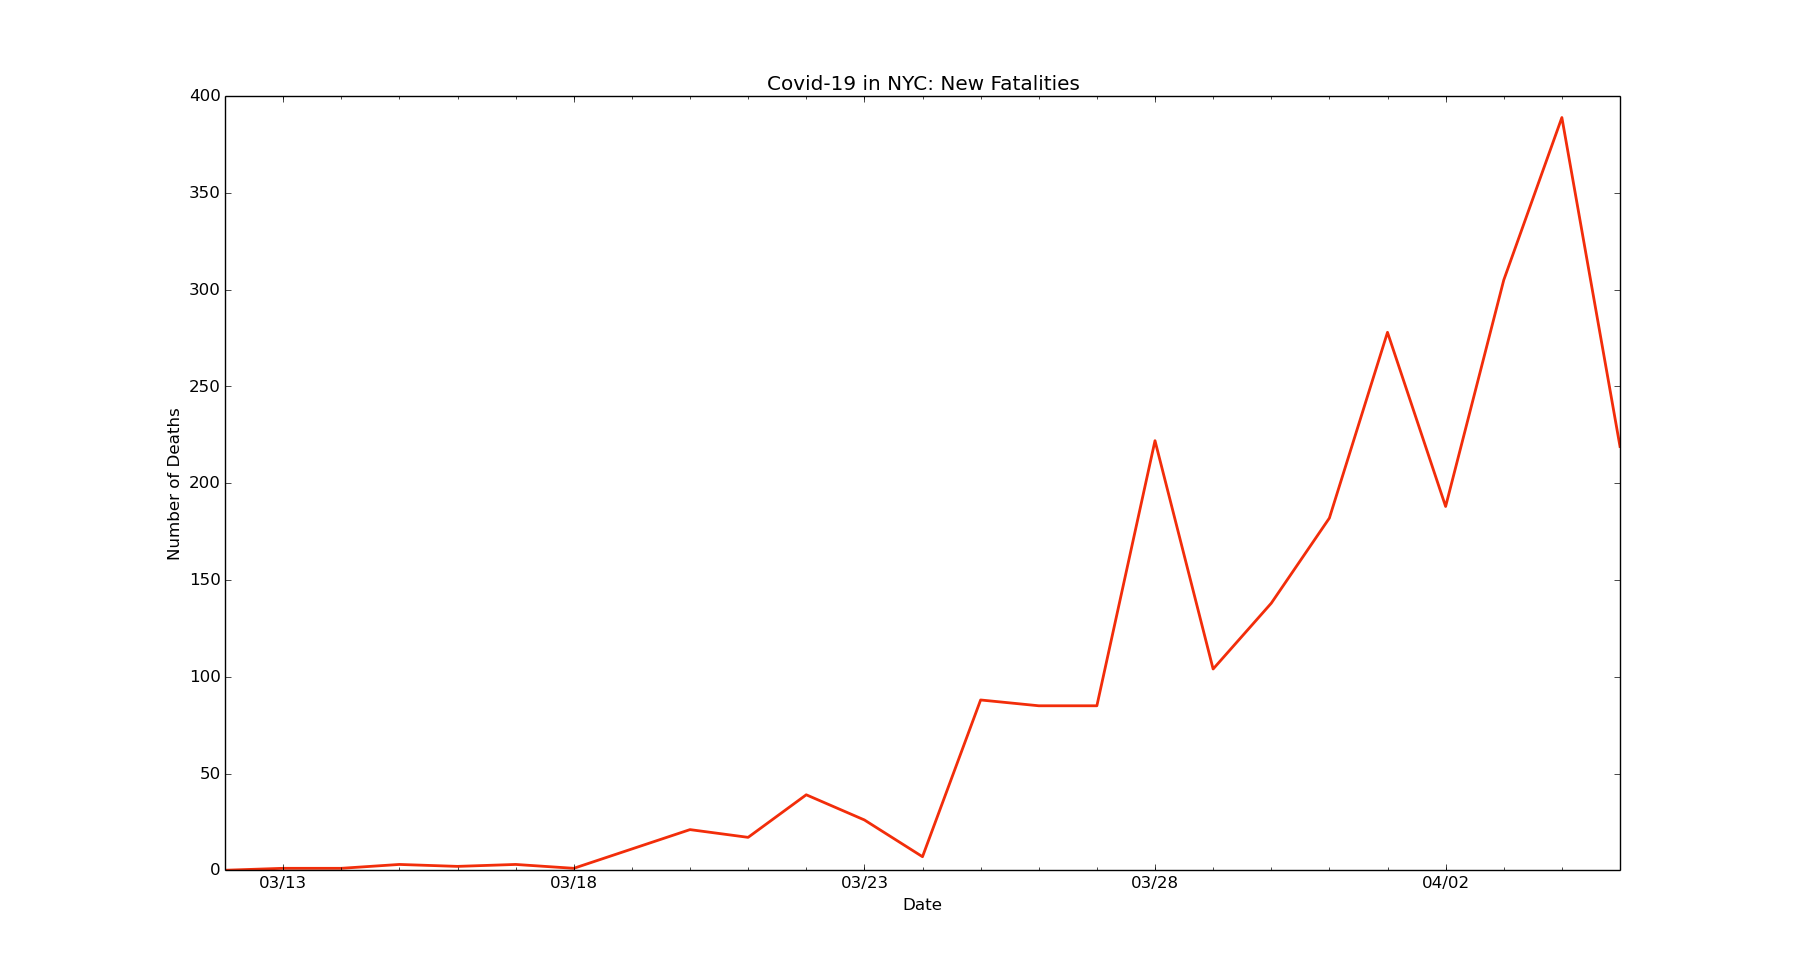
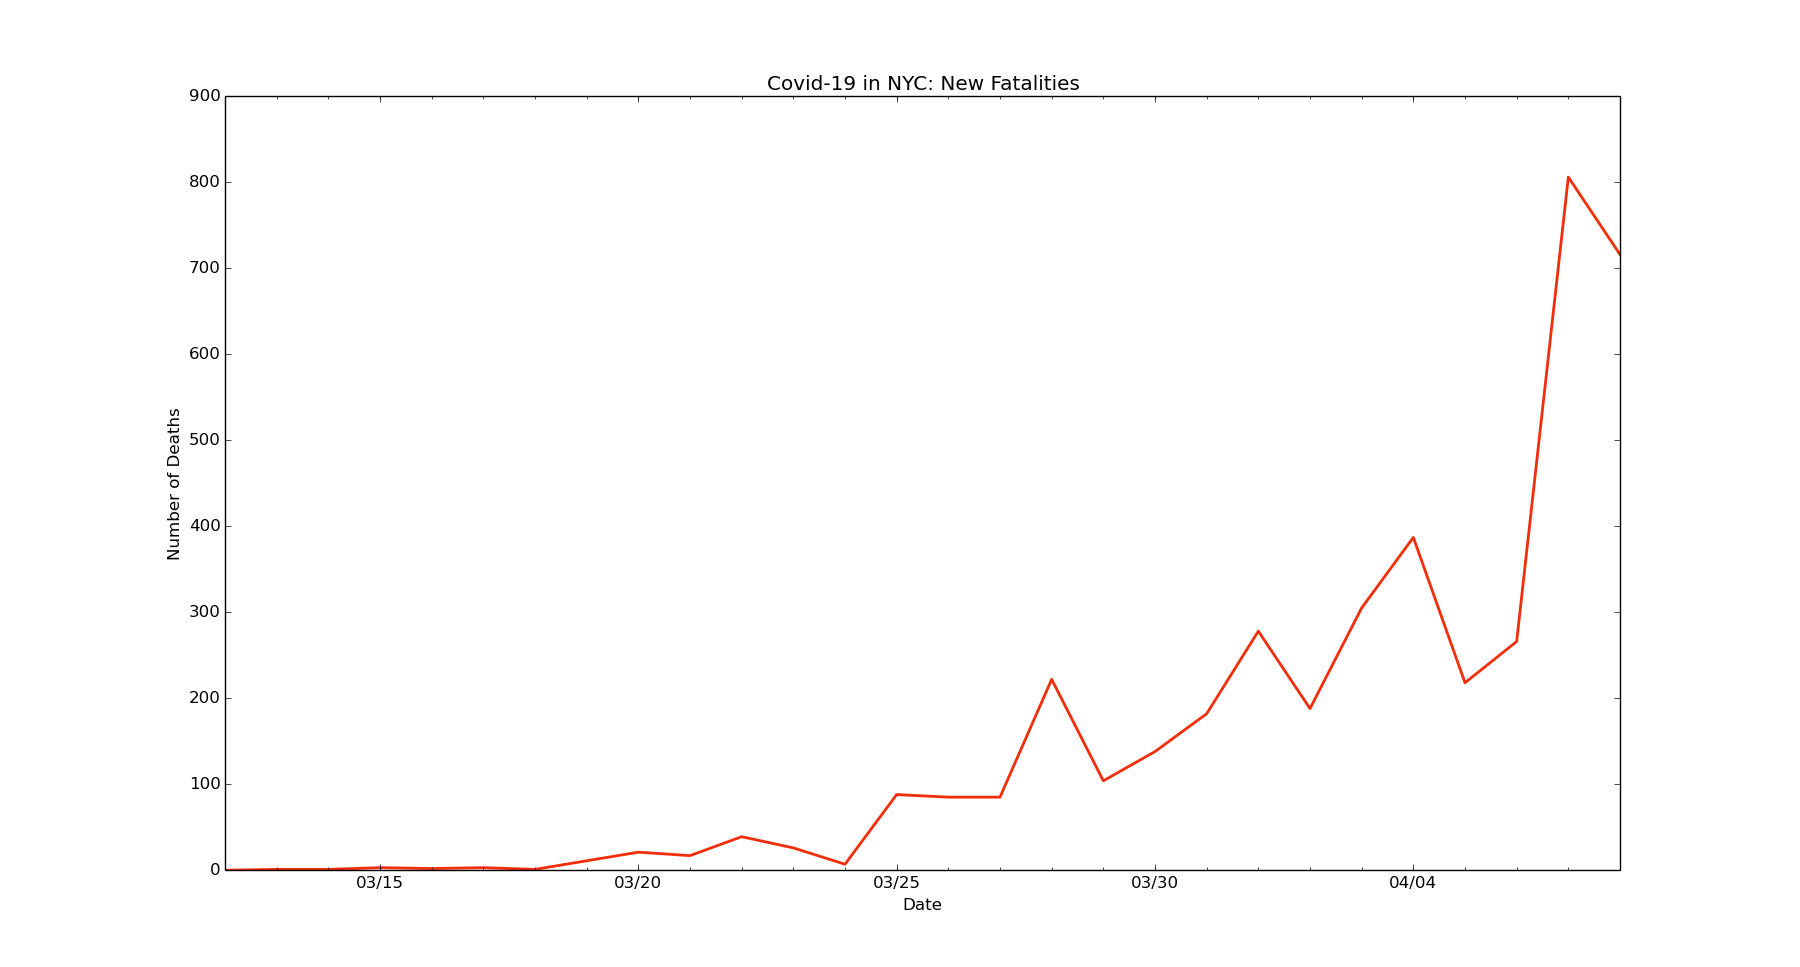
chore: Update data for NYC

diff --git a/nyc/nyc-new-cases.py b/nyc/nyc-new-cases.py
@@ -6,7 +6,7 @@ import matplotlib.dates as mdates
 import matplotlib.ticker as ticker
 from matplotlib.dates import MO, TU, WE, TH, FR, SA, SU
 
-dates = ['2/29/2020', '3/1/2020', '3/2/2020', '3/3/2020', '3/4/2020', '3/5/2020', '3/6/2020', '3/7/2020', '3/8/2020', '3/9/2020', '3/10/2020', '3/11/2020', '3/12/2020', '3/13/2020', '3/14/2020', '3/15/2020', '3/16/2020', '3/17/2020', '3/18/2020', '3/19/2020', '3/20/2020', '3/21/2020', '3/22/2020', '3/23/2020', '3/24/2020', '3/25/2020', '3/26/2020', '3/27/2020', '3/28/2020', '3/29/2020', '3/30/2020', '3/31/2020', '4/1/2020', '4/2/2020', '4/3/2020', '4/4/2020', '4/5/2020']
+dates = ['2/29/2020', '3/1/2020', '3/2/2020', '3/3/2020', '3/4/2020', '3/5/2020', '3/6/2020', '3/7/2020', '3/8/2020', '3/9/2020', '3/10/2020', '3/11/2020', '3/12/2020', '3/13/2020', '3/14/2020', '3/15/2020', '3/16/2020', '3/17/2020', '3/18/2020', '3/19/2020', '3/20/2020', '3/21/2020', '3/22/2020', '3/23/2020', '3/24/2020', '3/25/2020', '3/26/2020', '3/27/2020', '3/28/2020', '3/29/2020', '3/30/2020', '3/31/2020', '4/1/2020', '4/2/2020', '4/3/2020', '4/4/2020', '4/5/2020', '4/6/2020', '4/7/2020', '4/8/2020']
 
 # format dates
 x_values = [dt.datetime.strptime(d, "%m/%d/%Y").date() for d in dates]
@@ -33,7 +33,7 @@ plt.axvline(dt.datetime(2020, 3, 20), linestyle='--', color='red', linewidth=2, 
 plt.axvline(dt.datetime(2020, 3, 22), color='black', linewidth=2, label='stay at home')
 
 # new cases by day
-new_cases = [0, 1, 0, 0, 0, 3, 0, 7, 9, 7, 5, 23, 47, 59, 115, 60, 485, 109, 1086, 1606, 2068, 2432, 2649, 2355, 2478, 4414, 3101, 3585, 4033, 2744, 4613, 5052, 4210, 2358, 6582, 11262, 4630]
+new_cases = [0, 1, 0, 0, 0, 3, 0, 7, 9, 7, 5, 23, 47, 59, 115, 60, 485, 109, 1086, 1606, 2068, 2432, 2649, 2355, 2478, 4414, 3101, 3585, 4033, 2744, 4613, 5052, 4210, 2358, 6582, 4561, 4105, 3821, 5825, 5603]
 
 # text labels
 plt.title('Covid-19 in NYC: New Cases')

diff --git a/nyc/nyc-deaths-new.py b/nyc/nyc-deaths-new.py
@@ -6,7 +6,7 @@ import matplotlib.dates as mdates
 import matplotlib.ticker as ticker
 from matplotlib.dates import MO, TU, WE, TH, FR, SA, SU
 
-dates = ['3/12/2020', '3/13/2020', '3/14/2020', '3/15/2020', '3/16/2020', '3/17/2020', '3/18/2020', '3/19/2020', '3/20/2020', '3/21/2020', '3/22/2020', '3/23/2020', '3/24/2020', '3/25/2020', '3/26/2020', '3/27/2020', '3/28/2020', '3/29/2020', '3/30/2020', '3/31/2020', '4/1/2020', '4/2/2020', '4/3/2020', '4/4/2020', '4/5/2020']
+dates = ['3/12/2020', '3/13/2020', '3/14/2020', '3/15/2020', '3/16/2020', '3/17/2020', '3/18/2020', '3/19/2020', '3/20/2020', '3/21/2020', '3/22/2020', '3/23/2020', '3/24/2020', '3/25/2020', '3/26/2020', '3/27/2020', '3/28/2020', '3/29/2020', '3/30/2020', '3/31/2020', '4/1/2020', '4/2/2020', '4/3/2020', '4/4/2020', '4/5/2020', '4/6/2020', '4/7/2020', '4/8/2020']
 
 # format dates
 x_values = [datetime.datetime.strptime(d, "%m/%d/%Y").date() for d in dates]
@@ -24,7 +24,7 @@ ax.xaxis.set_minor_locator(mdates.WeekdayLocator(byweekday=(MO, TU, WE, TH, FR, 
 ax.get_yaxis().set_major_formatter(ticker.FuncFormatter(lambda x, pos: format(int(x), ',')))
 
 # new deaths by day
-new_deaths = [0, 1, 1, 3, 2, 3, 1, 11, 21, 17, 39, 26, 7, 88, 85, 85, 222, 104, 138, 182, 278, 188, 305, 389, 219]
+new_deaths = [0, 1, 1, 3, 2, 3, 1, 11, 21, 17, 39, 26, 7, 88, 85, 85, 222, 104, 138, 182, 278, 188, 305, 387, 218, 266, 806, 716]
 
 # text labels
 plt.title('Covid-19 in NYC: New Fatalities')
